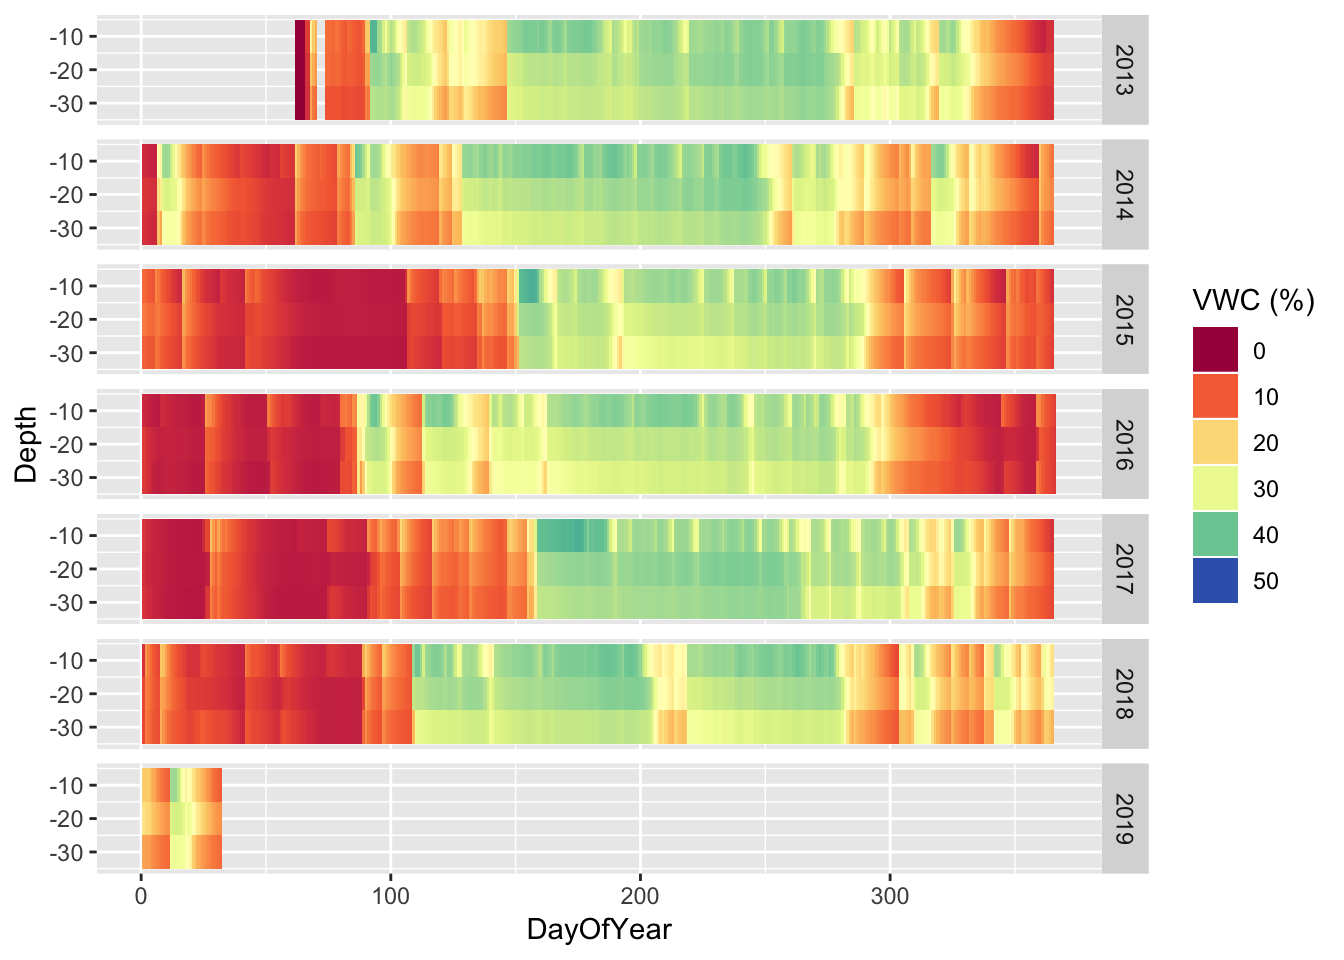
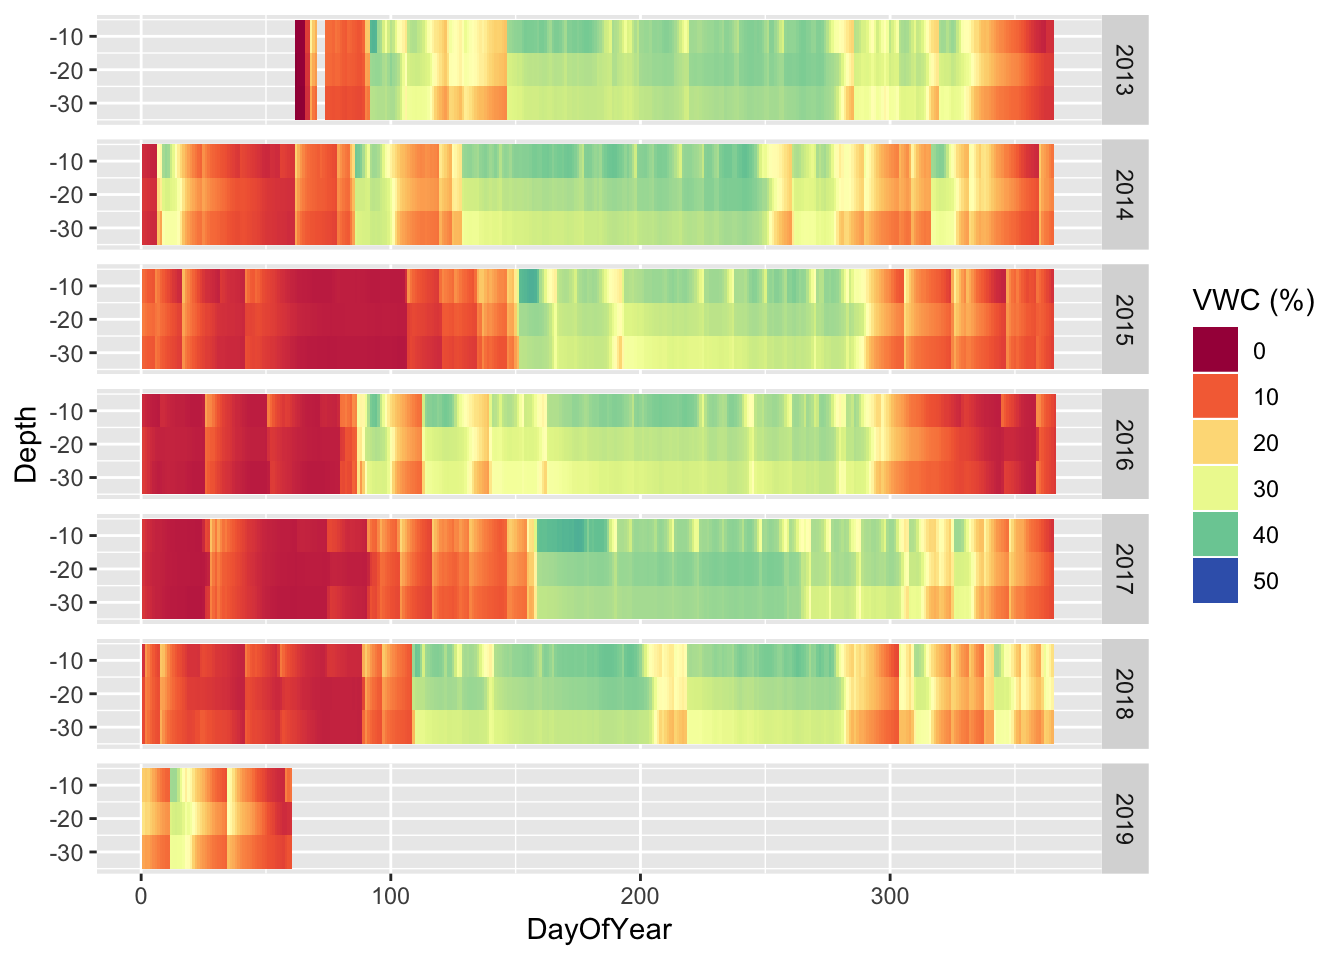
A few tweaks to CT comments and a semi-update of drought monitor

Changed region(s): [[0.1562, 0.7812, 0.2188, 0.9062]]

diff --git a/post/cape-town-draft-water-strategy/index.html b/post/cape-town-draft-water-strategy/index.html
@@ -14,7 +14,7 @@
         "name" : "The City of Cape Town&#39;s Draft Water Strategy - Inspirational? Aspirational? Or a poorly greenwashed status quo?",
         "headline" : "The City of Cape Town&#39;s Draft Water Strategy - Inspirational? Aspirational? Or a poorly greenwashed status quo?",
         "description" : "The City of Cape Town’s Draft Water Strategy is out for comment until the 15th March. This post provides a quick and opinionated précis of what it contains and the comments I’ve sent to the City. Even if you don’t agree with me, I encourage you to write to the City and have your say.
-The Strategy in brief The document is structured around 5 “Commitments”“, which are defined as “A willingness to give our time and energy to something that we believe in, a promise, a firm decision to do something”",
+The Strategy in brief The document is structured around 5 “Commitments”, which are defined as “A willingness to give our time and energy to something that we believe in, a promise, a firm decision to do something”",
         "inLanguage" : "en",
         "author" : "Jasper Slingsby",
         "creator" : "Jasper Slingsby",
@@ -25,7 +25,7 @@ The Strategy in brief The document is structured around 5 “Commitments”“, 
         "datePublished": "2019-03-11 00:00:00 &#43;0000 UTC",
         "dateModified" : "2019-03-11 00:00:00 &#43;0000 UTC",
         "url" : "/post/cape-town-draft-water-strategy/",
-        "wordCount" : "2035",
+        "wordCount" : "2045",
         "image" : //img/CityTrust.jpg",
         "keywords" : [ "Blog" ]   
     }
@@ -256,7 +256,7 @@ if (!doNotTrack) {
               <p>The City of Cape Town’s Draft Water Strategy <a href="https://bit.ly/2EAYW02"><strong>is out for comment</strong></a> until the 15th March. This post provides a quick and opinionated précis of what it contains and the comments I’ve sent to the City. Even if you don’t agree with me, I encourage you to write to the City and have your say.</p>
 <div id="the-strategy-in-brief" class="section level3">
 <h3>The Strategy in brief</h3>
-<p>The document is structured around 5 “Commitments”“, which are defined as <em>“A willingness to give our time and energy to something that we believe in, a promise, a firm decision to do something”</em></p>
+<p>The document is structured around 5 “Commitments”, which are defined as <em>“A willingness to give our time and energy to something that we believe in, a promise, a firm decision to do something”</em></p>
 <p>The Commitments (no, not the 1990’s Irish movie band) are guided by the Vision that <em>“Cape Town will be a water sensitive city by 2040 that optimizes and integrates the management of water resources to improve resilience, competitiveness and liveability for the prosperity of its people.”</em></p>
 <hr />
 <div id="they-are-also-guided-by-ten-principles" class="section level4">
@@ -278,7 +278,7 @@ if (!doNotTrack) {
 </div>
 <div id="as-for-the-5-commitments-these-are" class="section level4">
 <h4>As for the 5 Commitments, these are:</h4>
-<p><strong>Safe access to water and sanitation</strong> (1 page)</p>
+<p><strong>Safe access to water and sanitation</strong> (1 page of the document)</p>
 <ul>
 <li>mostly focused on improving access and quality of service to informal settlements and low-income areas.</li>
 </ul>
@@ -288,11 +288,11 @@ if (!doNotTrack) {
 </ul>
 <p><strong>Sufficient, reliable water from diverse sources</strong> (12 pages)</p>
 <ul>
-<li>predominantly the “Build programme” for schemes to bring new water to the City. They are largely the groundwater, water reuse and desalination schemes that are already underway as the City’s emergency response to the drought. It does give some detail on costs – namely a capital expenditure of R5.4 billion over the next 10 years. It also indicates an alien vegetation clearing budget of R20 to R40 million per annum. This range spans from no change in budget allocation since before the drought to a doubling in budget. It also does not indicate that the money will be spent in the catchments, which seems unlikely to be implicit, since very little of the catchment areas are within the City’s municipal boundaries. Either way, it is too little to effectively address the issue (and reap the benefits) even if it were all spent in the catchments.</li>
+<li>predominantly the “Build programme” for schemes to bring new water to the City. They are largely the groundwater, water reuse and desalination schemes that are already underway as the City’s emergency response to the drought. It does give some detail on costs – namely a capital expenditure of R5.4 billion over the next 10 years. It also indicates an alien vegetation clearing budget of R20 to R40 million per annum. This range spans from no change in budget allocation for alien clearing since before the drought to a doubling in budget. It also does not indicate that the money will be spent on clearing in the catchments, which seems unlikely to be implicit, since very little of the catchment areas are within the City’s municipal boundaries. Either way, it is too little to effectively address the issue (and reap the benefits) even if it were all spent in the catchments.</li>
 </ul>
 <p><strong>Shared benefits from regional water resources</strong> (3 pages)</p>
 <ul>
-<li>proposes using “collaborative processes” to optimise the economic, social and ecological benefits of regional water resources, and to reduce the risks.</li>
+<li>proposes using undefined “collaborative processes” to optimise the economic, social and ecological benefits of regional water resources, and to reduce the risks.</li>
 </ul>
 <p><strong>A water sensitive city</strong> (2 pages)</p>
 <ul>
@@ -304,7 +304,7 @@ if (!doNotTrack) {
 <h4>Translating the plan into action</h4>
 <p>This is the bit where the document gets a little thin…</p>
 <p>It mostly outlines a list of what are essentially key performance areas (KPAs) for the City’s Department of Water and Sanitation. These do not appear to be novel, and I’d expect are basic KPAs for any water facility anywhere in the world. If anything, outlining them here is great cause for concern as it suggests that these have not been the focus for Cape Town thus far. I’d love to know what has?</p>
-<p>As one would expect, the only area of any detail is the section on “Financing Capital Costs and Setting Tariffs”“, which is the usual fluff to soften the blow of”The build programme is gonna cost a lot and you guys have to pay“.</p>
+<p>As one would expect, the only area of any detail is the section on “Financing Capital Costs and Setting Tariffs”, which is the usual fluff to soften the blow of <em>“The build programme is gonna cost a lot and you guys have to pay”</em>.</p>
 <p>Perhaps my biggest cause for concern is the lack of suggested key performance indicators (KPIs) to assess progress towards the KPAs. While the details of any KPIs would only come into play in the THREE(!!!) proposed implementation plans, without any indication of what the KPIs would be here it is difficult to gauge what actions the City actually envisages taking.</p>
 <p>Which brings us to the 3 proposed…</p>
 <hr />
@@ -330,7 +330,7 @@ if (!doNotTrack) {
 <div id="annexures" class="section level4">
 <h4>Annexures</h4>
 <p>Finally, there are a series of annexures to support some of the content reported in the body of the document. These are not without flaws, but I’m going to hold back, other than to say that the interpretation of changes in Perth’s runoff into dams (Figure A1) as a massive a step change in rainfall driven by climate change impact creating is disingenuous.</p>
-<p>The figure is presented as a step change in rainfall and evidence for climate change, yet the data shown are for runoff, which depend on a variety of other factors too. In fact, the book Ludwig et al. 2012. Climate Change Adaptation in the Water Sector presents the same data (up to ~2007), citing catchment management and pressures on groundwater sources as equally important drivers of the change, but the relative importance of the various drivers is yet to be quantified.</p>
+<p>The figure is presented as a step change in rainfall and evidence for climate change, yet the data shown are for runoff, which depend on a variety of other factors too. In fact, the book Ludwig et al. 2012. <em>Climate Change Adaptation in the Water Sector</em> presents the same data (up to ~2007), citing catchment management and pressures on groundwater sources as equally important drivers of the change, but the relative importance of the various drivers is yet to be quantified.</p>
 <p>This interpretation is key as the City has made no clear commitment to addressing catchment health (including clearing invasive alien plants), but is investing over a billion Rands into abstracting groundwater from catchment areas…</p>
 <hr />
 </div>

diff --git a/index.html b/index.html
@@ -240,60 +240,12 @@ if (!doNotTrack) {
 			
 
 				
-				<a class="featured-image-link" href="/post/cape-town-draft-water-strategy/"><div class='featured-image lazy lazy-bg-image' data-background="/img/CityTrust.jpg"></div></a>
-
-				
-				<div class="excerpt-container">
-					<div class="excerpt-meta">
-						<span class="date">11 March</span>	
-
-						
-							
-							<span> / </span>
-						<span class="author">
-						<a href="http://ecologi.st/" title="Posts by Jasper Slingsby" rel="author">Jasper Slingsby</a>
-						</span>
-							
-						
-
-
-
-						
-					</div>
-					<div class='excerpt-header'>
-						<h2 class='excerpt-title'>
-							<a href="/post/cape-town-draft-water-strategy/ "> The City of Cape Town&#39;s Draft Water Strategy - Inspirational? Aspirational? Or a poorly greenwashed status quo? </a>
-						</h2>
-					</div>
-					<div class='excerpt-content'>
-						<article>
-							The City of Cape Town’s Draft Water Strategy is out for comment until the 15th March. This post provides a quick and opinionated précis of what it contains and the comments I’ve sent to the City. Even if you don’t agree with me, I encourage you to write to the City and have your say.
-The Strategy in brief The document is structured around 5 “Commitments”“, which are defined as “A willingness to give our time and energy to something that we believe in, a promise, a firm decision to do something”
-
-							<div class="more-link-wrapper"><a class="more-link" href="/post/cape-town-draft-water-strategy/">Read the post<span class="screen-reader-text">This is a Standard Post</span></a></div>
-						</article>
-					</div>
-				</div>
-			</div>
-			
-  
-  
-    
-  
-  
-	
-	
-		<div class="post type-post status-publish format-standard has-post-thumbnail hentry category-design tag-memories tag-normal-post tag-standard-2 excerpt zoom full-without-featured even excerpt">
-			
-			
-
-				
 				<a class="featured-image-link" href="/post/2017-04-01-langrivier/"><div class='featured-image lazy lazy-bg-image' data-background="/img/jonkershoek2.jpg"></div></a>
 
 				
 				<div class="excerpt-container">
 					<div class="excerpt-meta">
-						<span class="date">11 February</span>	
+						<span class="date">11 March</span>	
 
 						
 							
@@ -326,9 +278,57 @@ The Strategy in brief The document is structured around 5 “Commitments”“, 
 					<div class='excerpt-content'>
 						<article>
 							This analysis was prepared by the Fynbos Node of the South African Environmental Observation Network (SAEON).
-Here we present the record of stream flow rates for the Langrivier catchment and rainfall from the Dwarsberg weather station in the Jonkershoek Valley for the period January 1961 to the end of January 2019. The Dwarsberg weather station is at 1214 metres above sea level on the boundary of the catchments of the Eerste, Berg and Sonderend rivers and is a good indicator of rainfall feeding the Berg and Theewaterskloof dams.
+Here we present the record of stream flow rates for the Langrivier catchment and rainfall from the Dwarsberg weather station in the Jonkershoek Valley for the period January 1961 to the end of February 2019. The Dwarsberg weather station is at 1214 metres above sea level on the boundary of the catchments of the Eerste, Berg and Sonderend rivers and is a good indicator of rainfall feeding the Berg and Theewaterskloof dams.
 
 							<div class="more-link-wrapper"><a class="more-link" href="/post/2017-04-01-langrivier/">Read the post<span class="screen-reader-text">This is a Standard Post</span></a></div>
+						</article>
+					</div>
+				</div>
+			</div>
+			
+  
+  
+    
+  
+  
+	
+	
+		<div class="post type-post status-publish format-standard has-post-thumbnail hentry category-design tag-memories tag-normal-post tag-standard-2 excerpt zoom full-without-featured even excerpt">
+			
+			
+
+				
+				<a class="featured-image-link" href="/post/cape-town-draft-water-strategy/"><div class='featured-image lazy lazy-bg-image' data-background="/img/CityTrust.jpg"></div></a>
+
+				
+				<div class="excerpt-container">
+					<div class="excerpt-meta">
+						<span class="date">11 March</span>	
+
+						
+							
+							<span> / </span>
+						<span class="author">
+						<a href="http://ecologi.st/" title="Posts by Jasper Slingsby" rel="author">Jasper Slingsby</a>
+						</span>
+							
+						
+
+
+
+						
+					</div>
+					<div class='excerpt-header'>
+						<h2 class='excerpt-title'>
+							<a href="/post/cape-town-draft-water-strategy/ "> The City of Cape Town&#39;s Draft Water Strategy - Inspirational? Aspirational? Or a poorly greenwashed status quo? </a>
+						</h2>
+					</div>
+					<div class='excerpt-content'>
+						<article>
+							The City of Cape Town’s Draft Water Strategy is out for comment until the 15th March. This post provides a quick and opinionated précis of what it contains and the comments I’ve sent to the City. Even if you don’t agree with me, I encourage you to write to the City and have your say.
+The Strategy in brief The document is structured around 5 “Commitments”, which are defined as “A willingness to give our time and energy to something that we believe in, a promise, a firm decision to do something”
+
+							<div class="more-link-wrapper"><a class="more-link" href="/post/cape-town-draft-water-strategy/">Read the post<span class="screen-reader-text">This is a Standard Post</span></a></div>
 						</article>
 					</div>
 				</div>

diff --git a/post/2017-04-01-langrivier/index.html b/post/2017-04-01-langrivier/index.html
@@ -14,7 +14,7 @@
         "name" : "Drought Monitor for the Jonkershoek Valley, Western Cape, South Africa",
         "headline" : "Drought Monitor for the Jonkershoek Valley, Western Cape, South Africa",
         "description" : "This analysis was prepared by the Fynbos Node of the South African Environmental Observation Network (SAEON).
-Here we present the record of stream flow rates for the Langrivier catchment and rainfall from the Dwarsberg weather station in the Jonkershoek Valley for the period January 1961 to the end of January 2019. The Dwarsberg weather station is at 1214 metres above sea level on the boundary of the catchments of the Eerste, Berg and Sonderend rivers and is a good indicator of rainfall feeding the Berg and Theewaterskloof dams.",
+Here we present the record of stream flow rates for the Langrivier catchment and rainfall from the Dwarsberg weather station in the Jonkershoek Valley for the period January 1961 to the end of February 2019. The Dwarsberg weather station is at 1214 metres above sea level on the boundary of the catchments of the Eerste, Berg and Sonderend rivers and is a good indicator of rainfall feeding the Berg and Theewaterskloof dams.",
         "inLanguage" : "en",
         "author" : "",
         "creator" : "",
@@ -22,8 +22,8 @@ Here we present the record of stream flow rates for the Langrivier catchment and
         "accountablePerson" : "",
         "copyrightHolder" : "",
         "copyrightYear" : "2019",
-        "datePublished": "2019-02-11 00:00:00 &#43;0000 UTC",
-        "dateModified" : "2019-02-11 00:00:00 &#43;0000 UTC",
+        "datePublished": "2019-03-11 00:00:00 &#43;0000 UTC",
+        "dateModified" : "2019-03-11 00:00:00 &#43;0000 UTC",
         "url" : "/post/2017-04-01-langrivier/",
         "wordCount" : "1122",
         "image" : //img/jonkershoek2.jpg",
@@ -235,7 +235,7 @@ if (!doNotTrack) {
       
         <div class="entry-meta">
           
-    <span class="date">11 February 2019</span>	<span> / </span>
+    <span class="date">11 March 2019</span>	<span> / </span>
           
 
           <span class="author">
@@ -279,7 +279,7 @@ if (!doNotTrack) {
 <p><img src="/img/SAEON_DST.png" width="600px" /></p>
 <p><br></p>
 <p><em>This analysis was prepared by the <a href="http://www.saeon-fynbos.org"><strong>Fynbos Node</strong></a> of <a href="http://www.saeon.ac.za">the <strong>South African Environmental Observation Network (SAEON)</strong></a>.</em></p>
-<p>Here we present the record of stream flow rates for the Langrivier catchment and rainfall from the Dwarsberg weather station in the Jonkershoek Valley for the period January 1961 to the end of January 2019. The Dwarsberg weather station is at 1214 metres above sea level on the boundary of the catchments of the Eerste, Berg and Sonderend rivers and is a good indicator of rainfall feeding the Berg and Theewaterskloof dams.</p>
+<p>Here we present the record of stream flow rates for the Langrivier catchment and rainfall from the Dwarsberg weather station in the Jonkershoek Valley for the period January 1961 to the end of February 2019. The Dwarsberg weather station is at 1214 metres above sea level on the boundary of the catchments of the Eerste, Berg and Sonderend rivers and is a good indicator of rainfall feeding the Berg and Theewaterskloof dams.</p>
 <!--more-->
 <p>We plan to update this page monthly. For live weather data and the record over the past month please access the <a href="http://lognet.saeon.ac.za:8088/Dwarsberg/index.html"><strong>Dwarsberg weather station directly</strong></a>. You may also be interested in our <a href="http://lognet.saeon.ac.za:8088/Constantiaberg/index.html"><strong>Constantiaberg weather station</strong></a> on the Cape Peninsula or our <a href="http://lognet.saeon.ac.za:8088/EngCed/index.html"><strong>Engelsmanskloof weather station</strong></a> in the Cederberg.</p>
 <p><em>PLEASE NOTE: We cannot guarantee that these data or analyses are error free, particularly with regards to the older historical data and the comparability of the older and newer instrumentation. Gaps in the data were filled using linear interpolation from the most recent data for up to a 30 day period. This filled all gaps other than the period August 2008 to September 2011 - these data exist in hardcopy, but are still being digitized. There are much better gap-filling techniques, but the appropriate method depends on the question being asked.</em></p>

diff --git a/categories/interest/index.html b/categories/interest/index.html
@@ -21,8 +21,8 @@
         "accountablePerson" : "",
         "copyrightHolder" : "",
         "copyrightYear" : "2019",
-        "datePublished": "2019-02-11 00:00:00 &#43;0000 UTC",
-        "dateModified" : "2019-02-11 00:00:00 &#43;0000 UTC",
+        "datePublished": "2019-03-11 00:00:00 &#43;0000 UTC",
+        "dateModified" : "2019-03-11 00:00:00 &#43;0000 UTC",
         "url" : "/categories/interest/",
         "wordCount" : "0",
         "image" : /%!s(&lt;nil&gt;)",
@@ -254,7 +254,7 @@ if (!doNotTrack) {
 
 				<div class="excerpt-container">
 					<div class="excerpt-meta">
-						<span class="date">11 February</span>
+						<span class="date">11 March</span>
 
 
 
@@ -288,7 +288,7 @@ if (!doNotTrack) {
 							<div class='excerpt-content'>
 								<article>
 									This analysis was prepared by the Fynbos Node of the South African Environmental Observation Network (SAEON).
-Here we present the record of stream flow rates for the Langrivier catchment and rainfall from the Dwarsberg weather station in the Jonkershoek Valley for the period January 1961 to the end of January 2019. The Dwarsberg weather station is at 1214 metres above sea level on the boundary of the catchments of the Eerste, Berg and Sonderend rivers and is a good indicator of rainfall feeding the Berg and Theewaterskloof dams.
+Here we present the record of stream flow rates for the Langrivier catchment and rainfall from the Dwarsberg weather station in the Jonkershoek Valley for the period January 1961 to the end of February 2019. The Dwarsberg weather station is at 1214 metres above sea level on the boundary of the catchments of the Eerste, Berg and Sonderend rivers and is a good indicator of rainfall feeding the Berg and Theewaterskloof dams.
 
 									<div class="more-link-wrapper"><a class="more-link" href="/post/2017-04-01-langrivier/">Read the post<span class="screen-reader-text">This is a Standard Post</span></a></div>
 								</article>

diff --git a/categories/research/index.html b/categories/research/index.html
@@ -21,8 +21,8 @@
         "accountablePerson" : "",
         "copyrightHolder" : "",
         "copyrightYear" : "2019",
-        "datePublished": "2019-02-11 00:00:00 &#43;0000 UTC",
-        "dateModified" : "2019-02-11 00:00:00 &#43;0000 UTC",
+        "datePublished": "2019-03-11 00:00:00 &#43;0000 UTC",
+        "dateModified" : "2019-03-11 00:00:00 &#43;0000 UTC",
         "url" : "/categories/research/",
         "wordCount" : "0",
         "image" : /%!s(&lt;nil&gt;)",
@@ -254,7 +254,7 @@ if (!doNotTrack) {
 
 				<div class="excerpt-container">
 					<div class="excerpt-meta">
-						<span class="date">11 February</span>
+						<span class="date">11 March</span>
 
 
 
@@ -288,7 +288,7 @@ if (!doNotTrack) {
 							<div class='excerpt-content'>
 								<article>
 									This analysis was prepared by the Fynbos Node of the South African Environmental Observation Network (SAEON).
-Here we present the record of stream flow rates for the Langrivier catchment and rainfall from the Dwarsberg weather station in the Jonkershoek Valley for the period January 1961 to the end of January 2019. The Dwarsberg weather station is at 1214 metres above sea level on the boundary of the catchments of the Eerste, Berg and Sonderend rivers and is a good indicator of rainfall feeding the Berg and Theewaterskloof dams.
+Here we present the record of stream flow rates for the Langrivier catchment and rainfall from the Dwarsberg weather station in the Jonkershoek Valley for the period January 1961 to the end of February 2019. The Dwarsberg weather station is at 1214 metres above sea level on the boundary of the catchments of the Eerste, Berg and Sonderend rivers and is a good indicator of rainfall feeding the Berg and Theewaterskloof dams.
 
 									<div class="more-link-wrapper"><a class="more-link" href="/post/2017-04-01-langrivier/">Read the post<span class="screen-reader-text">This is a Standard Post</span></a></div>
 								</article>
